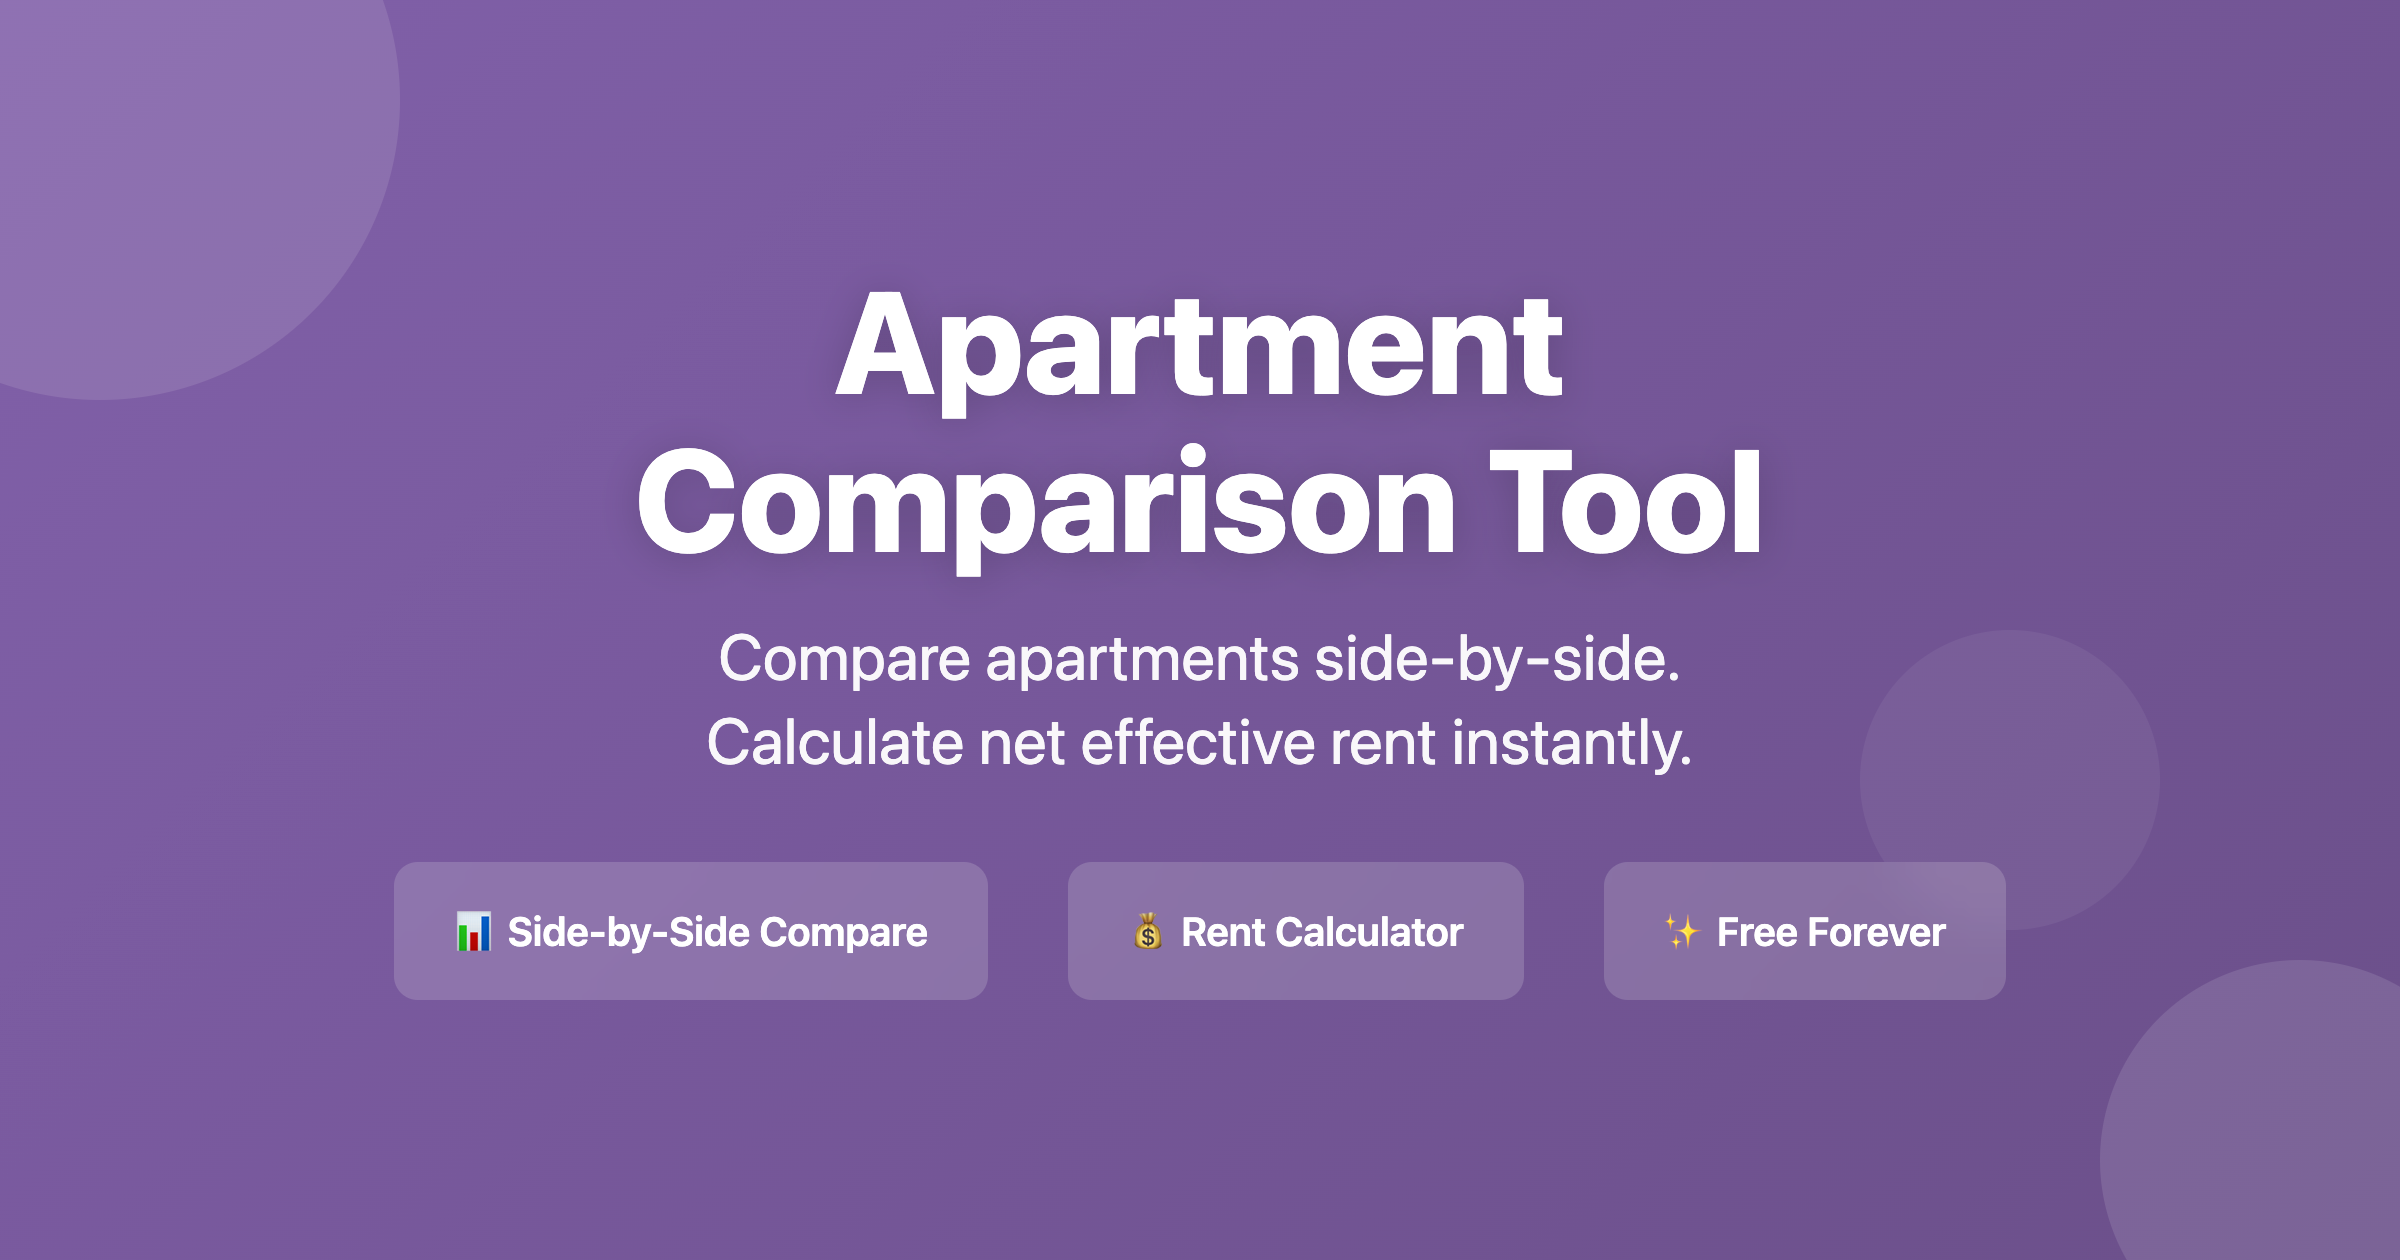
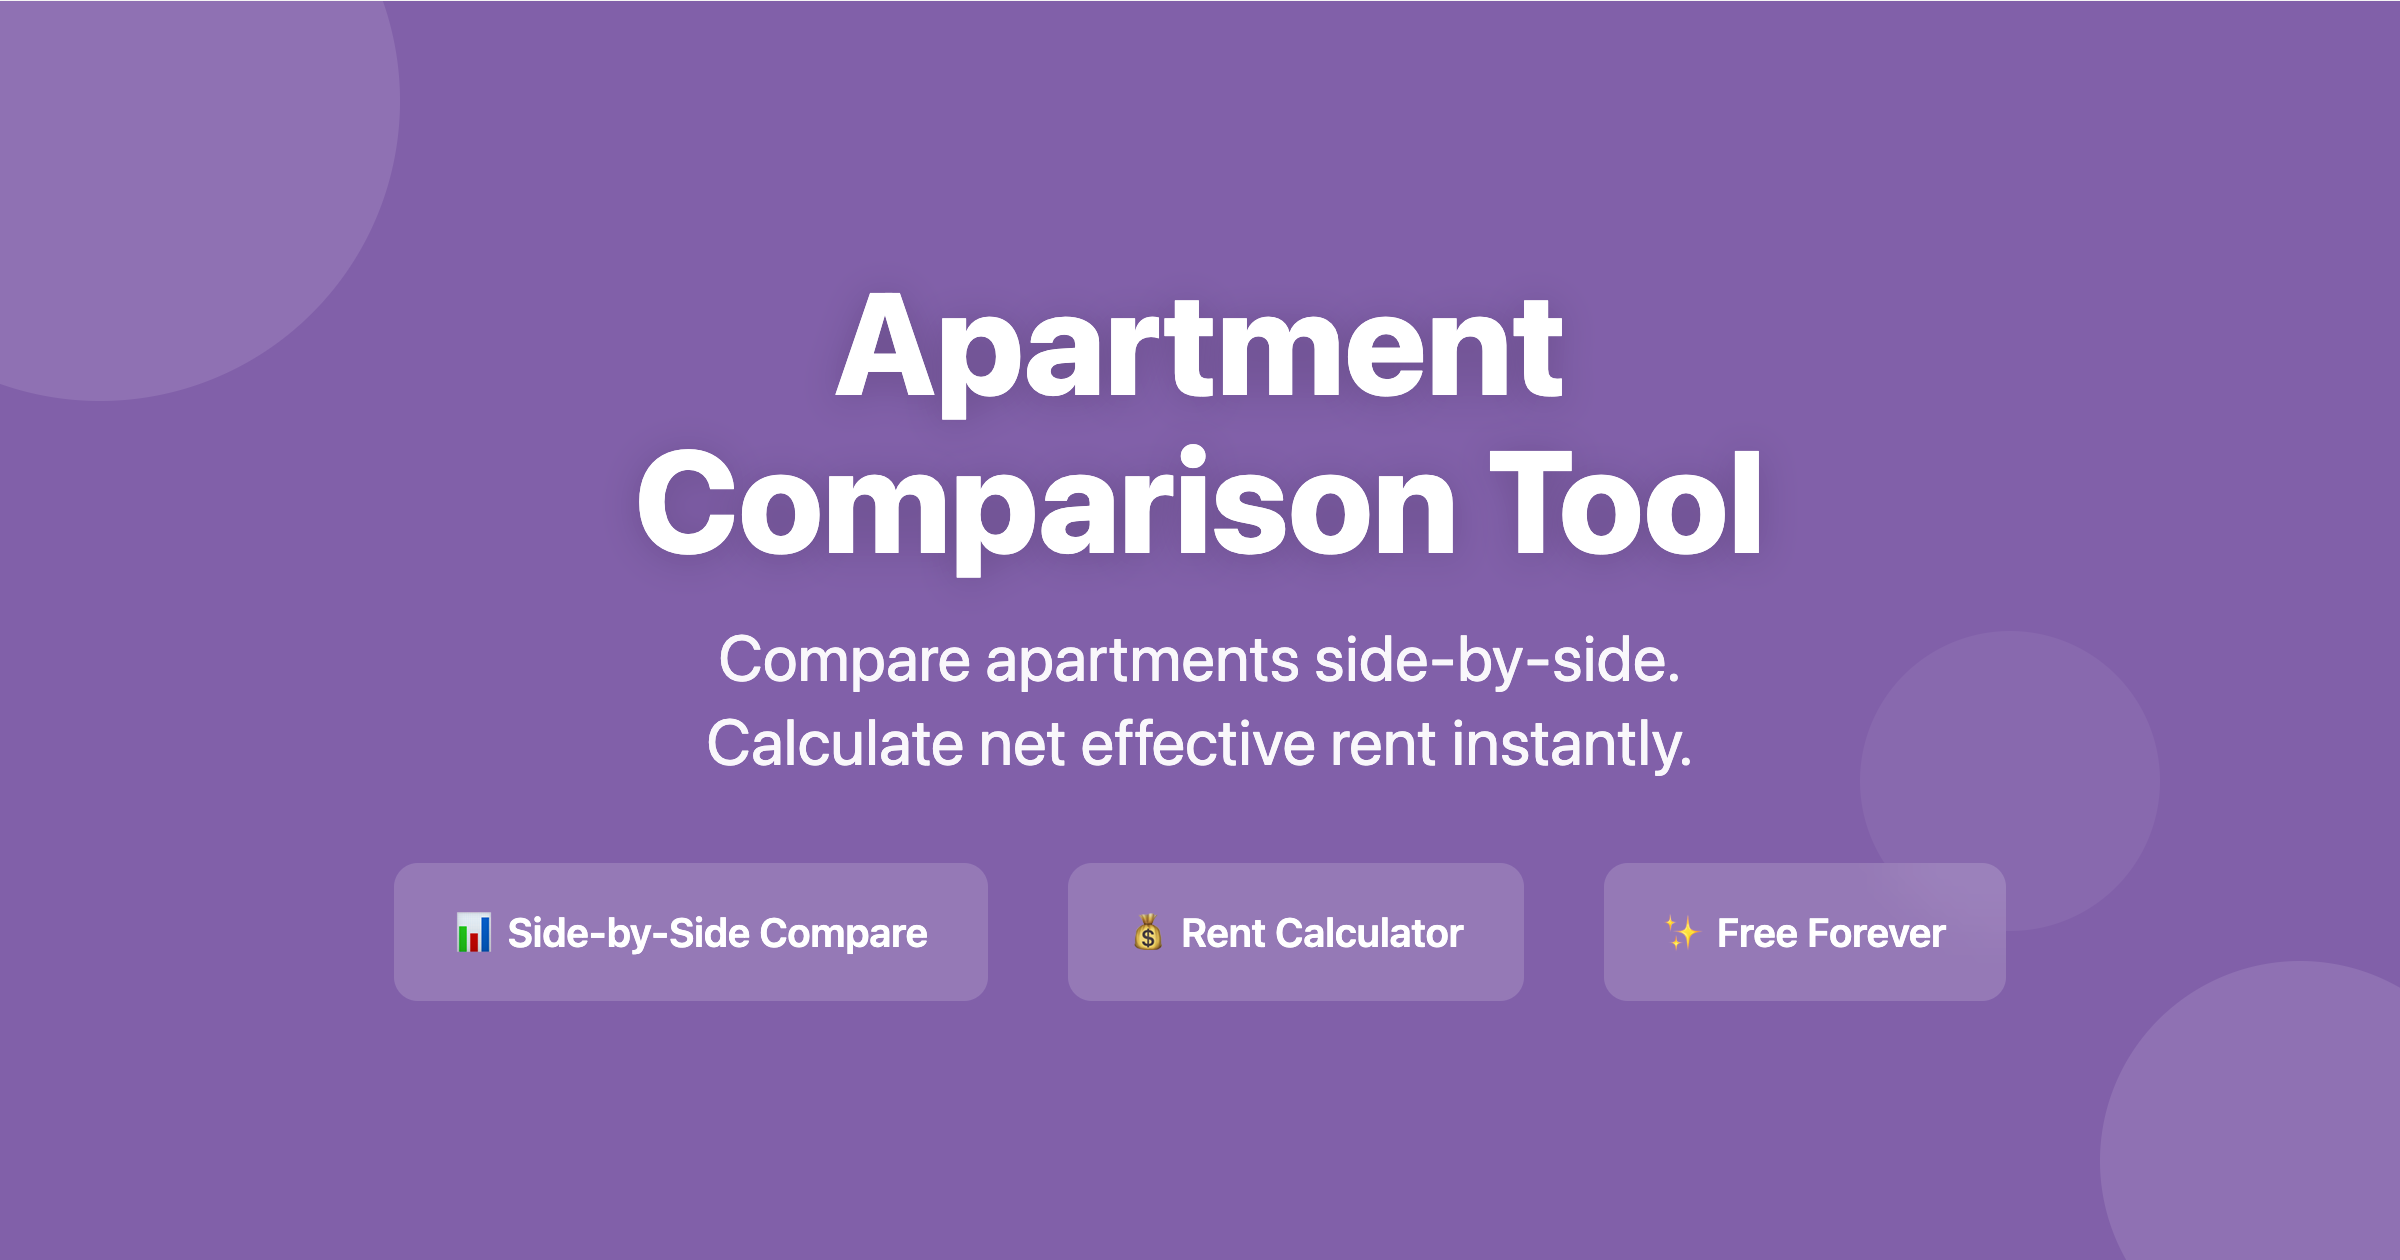
Update OpenGraph image and generator template
🤖 Generated with [Claude Code](https://claude.com/claude-code)

Changed region(s): [[0.6562, 0.3405, 1.0, 1.0], [0.625, 0.5881, 0.6562, 0.619]]

diff --git a/create_og_image.html b/create_og_image.html
@@ -15,7 +15,7 @@
             width: 1200px;
             height: 630px;
             margin: 0 auto;
-            background: linear-gradient(135deg, #8160A9 0%, #6B4F8A 100%);
+            background: #8160A9;
             display: flex;
             flex-direction: column;
             justify-content: center;
